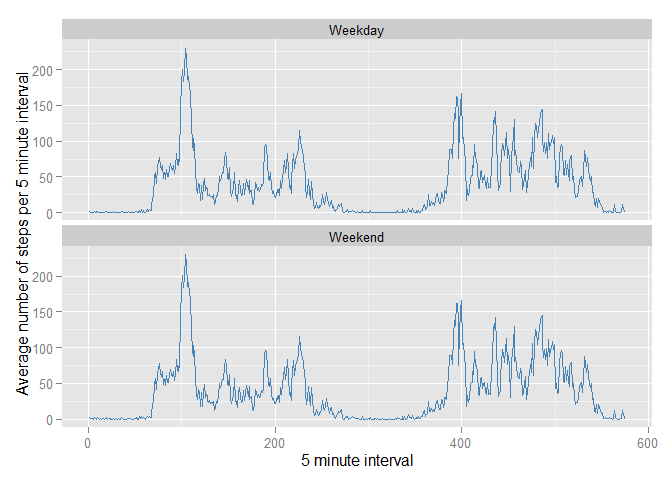
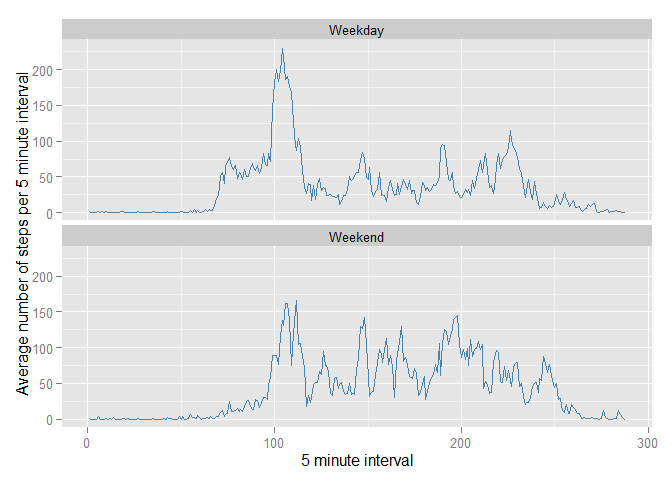
weekday/weekend figure repaired

diff --git a/PA1_template.html b/PA1_template.html
@@ -186,15 +186,16 @@ ggplot(dat, aes(x=val, fill=dataset)) +
 <pre class="r"><code>dataFilled$FactorDay &lt;- as.factor(ifelse(weekdays(dataFilled$date)  %in% c(&quot;subota&quot;,&quot;nedjelja&quot;), &quot;Weekend&quot;, &quot;Weekday&quot;))</code></pre>
 <p>Now, the panel plot can be created which has averaged number of steps per 5 minute interval, for both, weekdays and weekend.</p>
 <pre class="r"><code>averageIntervalDays &lt;- with(dataFilled, tapply(steps, list(interval, FactorDay), mean))
-dataDays &lt;- data.frame(xint = rep(1:length(averageIntervalDays),2), 
+noIntervals &lt;- dim(averageIntervalDays)
+dataDays &lt;- data.frame(xint = rep(1:noIntervals[1],2), 
                        stepsDay = c(averageIntervalDays[,1],averageIntervalDays[,2]),
-                       factorVar = rep(c(&quot;Weekday&quot;,&quot;Weekend&quot;),each = length(averageIntervalDays)))
+                       factorVar = rep(c(&quot;Weekday&quot;,&quot;Weekend&quot;),each = noIntervals[1]))
 ggplot(dataDays, aes(xint, stepsDay)) +
     geom_line(color = &quot;steelblue&quot;) +
     facet_wrap(~factorVar, nrow = 2) +
     labs(y = &quot;Average number of steps per 5 minute interval&quot;) +
     labs(x = &quot;5 minute interval&quot;)</code></pre>
[2 lines of base64/hex data omitted]
 <p><br></p>
 </div>
 

diff --git a/PA1_template.md b/PA1_template.md
@@ -192,9 +192,10 @@ Now, the panel plot can be created which has averaged number of steps per 5 minu
 
 ```r
 averageIntervalDays <- with(dataFilled, tapply(steps, list(interval, FactorDay), mean))
-dataDays <- data.frame(xint = rep(1:length(averageIntervalDays),2), 
+noIntervals <- dim(averageIntervalDays)
+dataDays <- data.frame(xint = rep(1:noIntervals[1],2), 
                        stepsDay = c(averageIntervalDays[,1],averageIntervalDays[,2]),
-                       factorVar = rep(c("Weekday","Weekend"),each = length(averageIntervalDays)))
+                       factorVar = rep(c("Weekday","Weekend"),each = noIntervals[1]))
 ggplot(dataDays, aes(xint, stepsDay)) +
     geom_line(color = "steelblue") +
     facet_wrap(~factorVar, nrow = 2) +
